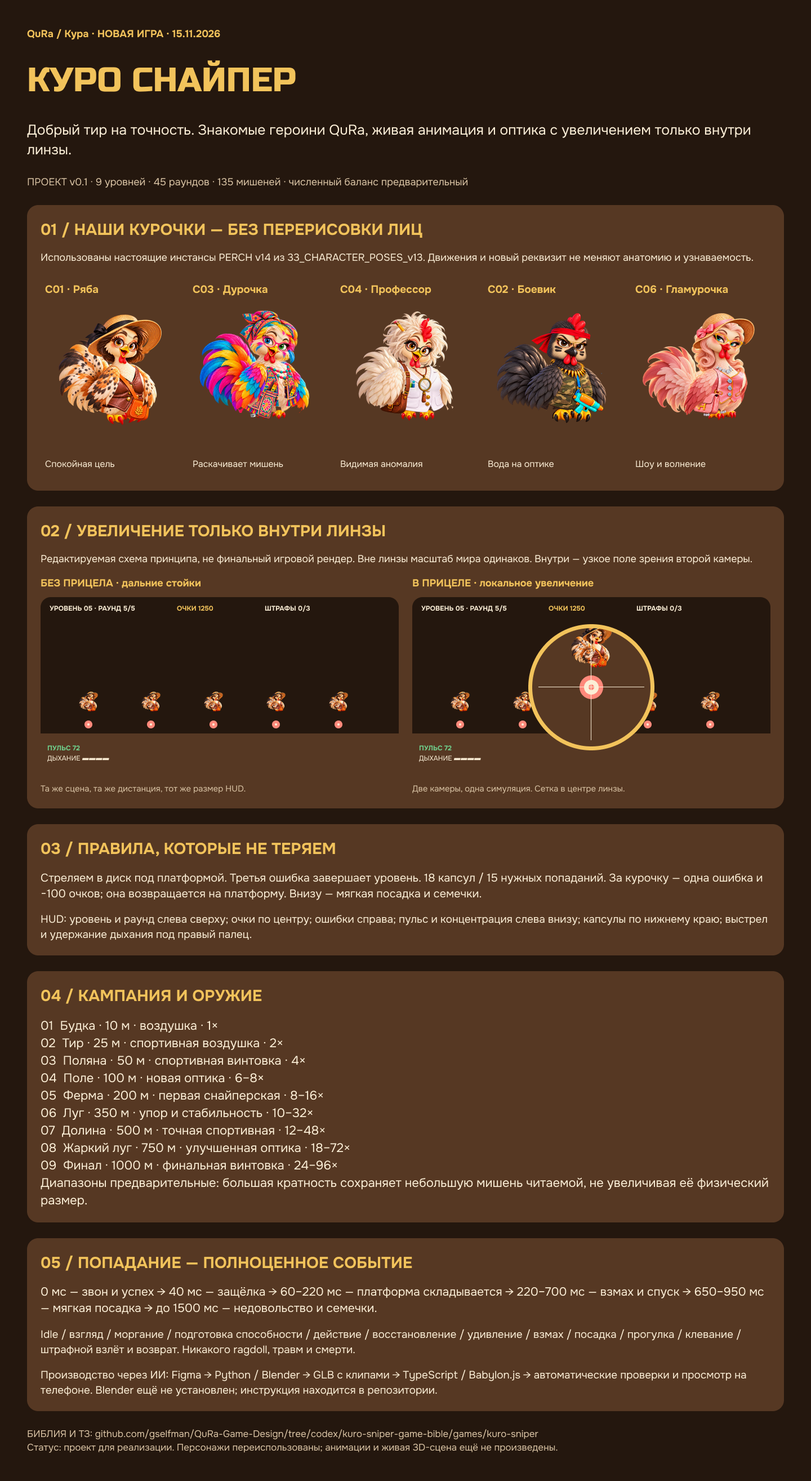
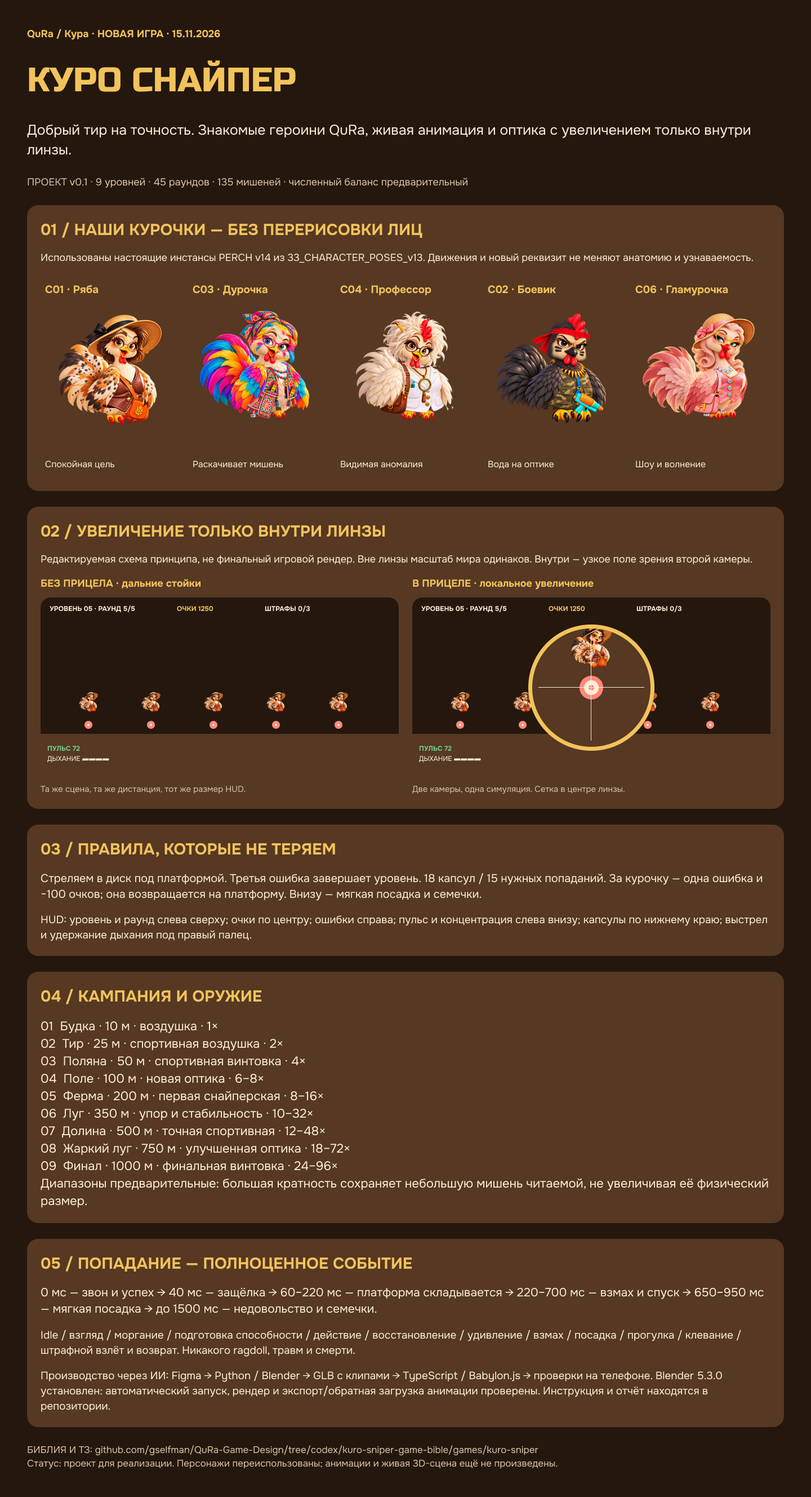
tools: configure and verify Blender automation on Apple Silicon

diff --git a/games/kuro-sniper/tools/blender_probe.py b/games/kuro-sniper/tools/blender_probe.py
@@ -1,14 +1,18 @@
 """Headless Blender capability probe. Creates a diagnostic cube, not a game asset."""
 import argparse
 import json
+import math
 import sys
 from pathlib import Path
 
 import bpy
+import gpu
+from mathutils import Vector
 
 arguments = sys.argv[sys.argv.index('--') + 1:] if '--' in sys.argv else []
 parser = argparse.ArgumentParser()
 parser.add_argument('--output', required=True)
+parser.add_argument('--engine', choices=['CYCLES', 'BLENDER_EEVEE'], default='CYCLES')
 options = parser.parse_args(arguments)
 output = Path(options.output).expanduser().resolve()
 output.mkdir(parents=True, exist_ok=True)
@@ -17,6 +21,9 @@ bpy.ops.object.delete(use_global=False)
 bpy.ops.mesh.primitive_cube_add(size=1, location=(0, 0, 0.5))
 probe = bpy.context.object
 probe.name = 'KS_DIAGNOSTIC_CUBE_NOT_CHARACTER'
+material = bpy.data.materials.new('KS_DIAGNOSTIC_AMBER')
+material.diffuse_color = (0.8, 0.27, 0.035, 1.0)
+probe.data.materials.append(material)
 probe.rotation_euler.z = 0
 probe.keyframe_insert(data_path='rotation_euler', frame=1)
 probe.rotation_euler.z = 0.6
@@ -25,16 +32,57 @@ bpy.context.scene.render.fps = 30
 bpy.context.scene.frame_start = 1
 bpy.context.scene.frame_end = 30
 bpy.context.scene.frame_set(1)
+scene = bpy.context.scene
+scene.render.engine = options.engine
+if options.engine == 'CYCLES':
+    scene.cycles.device = 'CPU'
+    scene.cycles.samples = 12
+scene.render.resolution_x = 512
+scene.render.resolution_y = 512
+scene.render.resolution_percentage = 100
+scene.world.color = (0.12, 0.12, 0.12)
+bpy.ops.object.camera_add(location=(3, -4, 3))
+camera = bpy.context.object
+camera.rotation_euler = (Vector((0, 0, 0.5)) - camera.location).to_track_quat('-Z', 'Y').to_euler()
+scene.camera = camera
+bpy.ops.object.light_add(type='AREA', location=(1, -2, 4))
+bpy.context.object.data.energy = 500
+bpy.context.object.data.shape = 'DISK'
+bpy.context.object.data.size = 4
+scene.render.image_settings.file_format = 'PNG'
+scene.render.filepath = str(output / 'probe.png')
 bpy.ops.wm.save_as_mainfile(filepath=str(output / 'probe.blend'))
 bpy.ops.export_scene.gltf(filepath=str(output / 'probe.glb'), export_format='GLB', export_animations=True)
+bpy.ops.render.render(write_still=True)
+graphics_backend = gpu.platform.backend_type_get()
+# Round-trip the exported file to exercise the installed import/export add-on.
+probe_name = probe.name
+bpy.ops.wm.read_factory_settings(use_empty=True)
+bpy.context.scene.render.fps = 30
+bpy.ops.import_scene.gltf(filepath=str(output / 'probe.glb'))
+restored = bpy.data.objects.get('KS_DIAGNOSTIC_CUBE_NOT_CHARACTER')
+if restored is None or restored.animation_data is None or restored.animation_data.action is None:
+    raise RuntimeError('GLB round-trip did not restore the diagnostic animation')
+bpy.context.scene.frame_set(1)
+start_rotation = restored.rotation_quaternion.copy() if restored.rotation_mode == 'QUATERNION' else restored.rotation_euler.to_quaternion()
+bpy.context.scene.frame_set(30)
+end_rotation = restored.rotation_quaternion.copy() if restored.rotation_mode == 'QUATERNION' else restored.rotation_euler.to_quaternion()
+rotation_delta = start_rotation.rotation_difference(end_rotation).angle
+if rotation_delta < 0.1:
+    raise RuntimeError('Imported animation did not change the diagnostic cube rotation')
 report = {
     'purpose': 'diagnostic cube only; no production chicken model or rig tested',
     'blenderVersion': bpy.app.version_string,
-    'files': ['probe.blend', 'probe.glb'],
+    'files': ['probe.blend', 'probe.glb', 'probe.png'],
     'frames': [1, 30],
     'fps': 30,
-    'mesh': probe.name,
+    'mesh': probe_name,
     'glbBytes': (output / 'probe.glb').stat().st_size,
+    'pngBytes': (output / 'probe.png').stat().st_size,
+    'animationRoundTrip': True,
+    'rotationChangeDegrees': math.degrees(rotation_delta),
+    'renderEngine': 'CYCLES_CPU' if options.engine == 'CYCLES' else options.engine,
+    'graphicsBackend': graphics_backend,
 }
 (output / 'probe-report.json').write_text(json.dumps(report, ensure_ascii=False, indent=2))
 print(json.dumps(report, ensure_ascii=False))

diff --git a/games/kuro-sniper/tools/blender_metal_check.py b/games/kuro-sniper/tools/blender_metal_check.py
@@ -1,0 +1,58 @@
+"""Render a small Metal test; optionally save Cycles device preferences."""
+import argparse
+import json
+import sys
+from pathlib import Path
+
+import bpy
+
+arguments = sys.argv[sys.argv.index('--') + 1:] if '--' in sys.argv else []
+parser = argparse.ArgumentParser()
+parser.add_argument('--output', required=True)
+parser.add_argument('--save-preferences', action='store_true')
+parser.add_argument('--kernel-optimization', choices=['OFF', 'INTERSECT', 'FULL'], default='INTERSECT')
+options = parser.parse_args(arguments)
+output = Path(options.output).expanduser().resolve()
+output.mkdir(parents=True, exist_ok=True)
+existing_preferences = Path(bpy.utils.user_resource('CONFIG')) / 'userpref.blend'
+if options.save_preferences and existing_preferences.is_file():
+    # --factory-startup is useful for a repeatable test scene, but should not
+    # reset unrelated preferences when applying the Cycles device selection.
+    bpy.ops.wm.read_userpref()
+preferences = bpy.context.preferences.addons['cycles'].preferences
+preferences.compute_device_type = 'METAL'
+preferences.kernel_optimization_level = options.kernel_optimization
+preferences.get_devices()
+print('Metal device discovery completed', flush=True)
+devices = []
+for device in preferences.devices:
+    device.use = device.type == 'METAL'
+    devices.append({'name': device.name, 'type': device.type, 'enabled': bool(device.use)})
+if not any(d['type'] == 'METAL' and d['enabled'] for d in devices):
+    raise RuntimeError('No Metal render device was found; preferences were not saved')
+print(json.dumps({'devices': devices}), flush=True)
+scene = bpy.context.scene
+scene.render.engine = 'CYCLES'
+scene.cycles.device = 'GPU'
+scene.cycles.samples = 4
+scene.render.resolution_x = 256
+scene.render.resolution_y = 256
+scene.render.resolution_percentage = 100
+scene.render.image_settings.file_format = 'PNG'
+scene.render.filepath = str(output / 'metal-probe.png')
+print('Starting Metal test render', flush=True)
+bpy.ops.render.render(write_still=True)
+if options.save_preferences:
+    bpy.ops.wm.save_userpref()
+report = {
+    'blenderVersion': bpy.app.version_string,
+    'devices': devices,
+    'renderEngine': 'CYCLES_METAL_GPU',
+    'renderPassed': True,
+    'preferencesSaved': options.save_preferences,
+    'kernelOptimization': options.kernel_optimization,
+    'pngBytes': (output / 'metal-probe.png').stat().st_size,
+    'note': 'New scenes must also select Cycles GPU; factory-startup may ignore saved user preferences.',
+}
+(output / 'metal-report.json').write_text(json.dumps(report, ensure_ascii=False, indent=2))
+print(json.dumps(report, ensure_ascii=False))

diff --git a/games/kuro-sniper/tools/configure_blender.py b/games/kuro-sniper/tools/configure_blender.py
@@ -1,0 +1,22 @@
+"""Save the locally verified Apple Silicon profile without resetting other preferences."""
+import json
+from pathlib import Path
+
+import bpy
+
+existing = Path(bpy.utils.user_resource('CONFIG')) / 'userpref.blend'
+if existing.is_file():
+    bpy.ops.wm.read_userpref()
+bpy.context.preferences.system.gpu_backend = 'METAL'
+cycles = bpy.context.preferences.addons['cycles'].preferences
+# EEVEE uses the verified Metal graphics backend. Keep Cycles on its verified
+# CPU path until an explicit Cycles-GPU kernel compilation test completes.
+cycles.compute_device_type = 'NONE'
+bpy.ops.wm.save_userpref()
+print(json.dumps({
+    'blenderVersion': bpy.app.version_string,
+    'graphicsBackend': bpy.context.preferences.system.gpu_backend,
+    'cyclesComputeDeviceType': cycles.compute_device_type,
+    'preferencesSaved': True,
+    'preservesExistingPreferences': True,
+}))

diff --git a/games/kuro-sniper/tools/validate_bible.py b/games/kuro-sniper/tools/validate_bible.py
@@ -75,6 +75,7 @@ for document in ROOT.glob('*.md'):
         if re.match(r'^[a-zA-Z]+:', link) or link.startswith('#'):
             continue
         assert (document.parent / link.split('#')[0]).exists(), (document.name, link)
-compile((ROOT / 'tools/blender_probe.py').read_text(), 'blender_probe.py', 'exec')
+for script in ('blender_probe.py', 'blender_metal_check.py', 'configure_blender.py'):
+    compile((ROOT / 'tools' / script).read_text(), script, 'exec')
 print('PASS: 9 levels / 45 rounds / 135 targets; ammo, score, references, 47 briefs, lens geometry and links.')
-print('NOT RUN: game runtime, live optics rendering, animation quality, real-device FPS, Blender execution.')
+print('NOT RUN by this validator: game runtime, live optics rendering, animation quality, real-device FPS or Blender. See blender-environment.json for separate installed-tool checks.')

diff --git a/games/kuro-sniper/BLENDER_SETUP.md b/games/kuro-sniper/BLENDER_SETUP.md
@@ -1,0 +1,73 @@
+# Blender — установка и проверка автоматизации
+
+Дата: 15.11.2026, Москва. Установлена стабильная **Blender 5.3.0**, Release `02f0899d78e3`, нативная архитектура Apple Silicon arm64. Установка через официальный Homebrew cask `blender` с ARM Homebrew `/opt/homebrew/bin/brew`.
+
+Приложение: `/Applications/Blender.app`. Исполняемый файл: `/Applications/Blender.app/Contents/MacOS/Blender`. Команда терминала: `/opt/homebrew/bin/blender`. macOS: проверка подписи пройдена, Gatekeeper `accepted`, источник `Notarized Developer ID`. Защита macOS не отключалась.
+
+## Что реально проверено
+
+- Запуск Blender из командной строки без ручной работы в интерфейсе.
+- Выполнение Python через `bpy`, создание геометрии/материала/ключей анимации.
+- Сохранение реального `.blend`.
+- Рендер кадра 512×512 через Cycles CPU.
+- Экспорт glTF 2.0 `.glb`: один mesh, одна анимация, канал rotation.
+- Обратный импорт GLB и проверка движения между кадрами 1 и 30: изменение поворота около 34.38°.
+- Рендер кадра 512×512 через **EEVEE на GPU, backend METAL**, с повторной успешной проверкой экспорта/импорта анимации.
+- Сохранены настройки: графический backend Metal; Cycles остаётся на проверенном CPU-пути. Остальные существующие предпочтения при повторной настройке сохраняются.
+
+Машиночитаемые результаты: [blender-environment.json](data/blender-environment.json).
+
+Это проверка установленного инструментария на диагностическом кубе. Она не является производством игровых курочек и не доказывает качество будущего rig/анимаций или FPS мобильной игры.
+
+## Команды для дальнейшей работы
+
+Из корня репозитория:
+
+```sh
+bash games/kuro-sniper/tools/blender.sh --version
+bash games/kuro-sniper/tools/blender.sh --background --factory-startup --python-exit-code 1 --python games/kuro-sniper/tools/blender_probe.py -- --output /tmp/kuro-sniper-blender-probe
+```
+
+Быстрый GPU-тест EEVEE:
+
+```sh
+bash games/kuro-sniper/tools/blender.sh --background --factory-startup --python-exit-code 1 --python games/kuro-sniper/tools/blender_probe.py -- --output /tmp/kuro-sniper-blender-eevee --engine BLENDER_EEVEE
+```
+
+Повторная установка проверенного рабочего профиля с сохранением остальных предпочтений:
+
+```sh
+bash games/kuro-sniper/tools/blender.sh --background --factory-startup --python-exit-code 1 --python games/kuro-sniper/tools/configure_blender.py
+```
+
+Опциональная проверка **Cycles** на Metal с сохранением настроек только после успешного рендера:
+
+```sh
+bash games/kuro-sniper/tools/blender.sh --background --factory-startup --python-exit-code 1 --python games/kuro-sniper/tools/blender_metal_check.py -- --output /tmp/kuro-sniper-blender-metal --save-preferences
+```
+
+`blender.sh` автоматически находит приложение и позволяет задать другую проверенную установку через `BLENDER_BIN`. Это устраняет зависимость от того, какой Homebrew первым стоит в PATH. Пароль/API-ключ, внешний MCP-сервер и открытый сетевой порт для управления не требуются.
+
+## GPU для производственного скрипта
+
+Для быстрых превью выбирать `scene.render.engine='BLENDER_EEVEE'`: этот режим с Metal реально прошёл тест. Cycles CPU также проверен. Первый FULL-тест Cycles/GPU был остановлен после более восьми минут компиляции без кадра; облегчённый OFF-тест тоже остановлен без результата. Это не считается PASS и не доказывает невозможность Cycles на GPU. У Blender есть [сообщение о замедленной компиляции Metal в 5.3](https://projects.blender.org/blender/blender/issues/166491); оно может объяснять наблюдение, но точная причина в этом сеансе не установлена.
+
+Если отдельно проводить повторный Cycles/GPU-тест, в конкретной сцене выбирать его явно:
+
+```python
+preferences = bpy.context.preferences.addons['cycles'].preferences
+preferences.compute_device_type = 'METAL'
+preferences.get_devices()
+for device in preferences.devices:
+    device.use = device.type == 'METAL'
+scene.render.engine = 'CYCLES'
+scene.cycles.device = 'GPU'
+```
+
+Перед рендером проверить наличие enabled Metal device; при отсутствии вывести понятную ошибку или явно выбранный CPU fallback. Не считать сохранённые user preferences гарантией выбора GPU в `--factory-startup`. Первый Metal-рендер может долго компилировать шейдеры; последующие задания используют системный cache. Не выполнять очистку этого cache как обычный подготовительный шаг.
+
+## Артефакты текущей проверки
+
+В рабочем каталоге QuRa: `output/blender-check/` содержит CPU-проверку — `probe.blend`, `probe.glb`, `probe.png`, `probe-report.json`. Каталог `output/blender-eevee-check/` содержит такую же успешную проверку через EEVEE/Metal. Cycles-GPU-файлы `metal-probe.png` и `metal-report.json` не созданы: эти тесты не завершили рендер. В репозиторий включён небольшой environment report; диагностические модели не подмешиваются к игровым ассетам.
+
+Для новой модели агент получает canonical source, версию rig, длительности и события клипа, затем создаёт/изменяет `.blend` через Python и возвращает GLB, preview и отчёт. Подробный производственный процесс: [AI_PRODUCTION_RUNBOOK.md](AI_PRODUCTION_RUNBOOK.md).

diff --git a/games/kuro-sniper/AI_PRODUCTION_RUNBOOK.md b/games/kuro-sniper/AI_PRODUCTION_RUNBOOK.md
@@ -2,7 +2,9 @@
 
 ## Что уже доступно и что требуется
 
-Проверено 15.11.2026: Figma подключена; GitHub доступен через `gh`; Node.js и Python есть. Blender не найден в PATH и `/Applications/Blender*.app`. Поиск подключаемого Blender-плагина в текущем каталоге не дал результата. Это не мешает управлению Blender через его официальный Python API и командный режим. Дополнительные платные 3D/animation-платформы для начала не нужны.
+Проверено 15.11.2026: Figma подключена; GitHub доступен через `gh`; Node.js и Python есть. **Blender 5.3.0 установлен для Apple Silicon** в `/Applications/Blender.app`, команда доступна как `/opt/homebrew/bin/blender`. macOS приняла notarized Developer ID приложения. Автоматический Python-запуск, сохранение `.blend`, Cycles CPU, EEVEE GPU через Metal и экспорт/обратная загрузка анимированного GLB проверены успешно. Рабочий профиль: EEVEE/Metal для быстрых превью, Cycles/CPU для проверенного офлайн-рендера. Cycles/GPU не заявляется проверенным: тесты остановлены на длительной компиляции. Подробности — в [отчёте установки](BLENDER_SETUP.md).
+
+Поиск подключаемого Blender-плагина в текущем каталоге не дал результата. Управление уже работает через официальный Python API и командный режим; дополнительный MCP-плагин и платные 3D/animation-платформы для начала не нужны.
 
 Предлагаемый набор:
 
@@ -25,10 +27,19 @@
 
 ```sh
 /Applications/Blender.app/Contents/MacOS/Blender --version
-/Applications/Blender.app/Contents/MacOS/Blender --background --factory-startup --python games/kuro-sniper/tools/blender_probe.py -- --output /tmp/kuro-sniper-blender-probe
+/Applications/Blender.app/Contents/MacOS/Blender --background --factory-startup --python-exit-code 1 --python games/kuro-sniper/tools/blender_probe.py -- --output /tmp/kuro-sniper-blender-probe
 ```
 
-Запускать из корня репозитория. Скрипт создаёт диагностические `.blend`, `.glb` и JSON с версией; это **не модель курочки**. После успешного запуска версия Blender фиксируется в production manifest, чтобы повторная генерация не зависела от внезапного обновления. Диагностика не требует интернет-доступа, API-ключа или открытого порта.
+Запускать из корня репозитория. Скрипт создаёт диагностические `.blend`, `.glb`, PNG и JSON с версией; проверяет реальный рендер и изменение поворота после обратной загрузки анимации. Это **не модель курочки**. После успешного запуска версия Blender фиксируется в production manifest, чтобы повторная генерация не зависела от внезапного обновления. Диагностика не требует интернет-доступа, API-ключа или открытого порта.
+
+Для независимости от порядка Intel/Apple Silicon Homebrew в PATH есть проектная команда:
+
+```sh
+bash games/kuro-sniper/tools/blender.sh --version
+bash games/kuro-sniper/tools/blender.sh --background --factory-startup --python-exit-code 1 --python games/kuro-sniper/tools/blender_probe.py -- --output /tmp/kuro-sniper-blender-probe
+```
+
+Опция `--python-exit-code 1` обязательна в автоматических заданиях: ошибка Python должна завершать задачу ошибкой, а не выглядеть успешным запуском Blender. Сохранение настроек устройства Cycles не означает, что каждая новая сцена автоматически выбрала GPU: в скрипте рендера задавать `scene.render.engine='CYCLES'` и `scene.cycles.device='GPU'` явно.
 
 Не устанавливать случайный community MCP с правом исполнять любой код только ради слова «нейросеть». Сначала CLI; если позже понадобится интерактивный bridge, отдельно выбрать поддерживаемое решение, проверить код и ограничить локальным доступом. Не открывать bridge в интернет.
 

diff --git a/games/kuro-sniper/VALIDATION.md b/games/kuro-sniper/VALIDATION.md
@@ -21,9 +21,9 @@
 
 Схема оптики демонстрирует требование композиции, не является работающей двухкамерной 3D-сценой. Экспорт overview — снимок для GitHub; сама Figma-страница содержит редактируемые слои и инстансы, а не импорт единого screenshot.
 
-## Не выполнялось / не заявляется готовым
+## Инструменты и границы проверенного
 
-- Установка Blender и запуск `blender_probe.py`: NOT_RUN, Blender не найден.
+- Установка Blender и запуск `blender_probe.py`: **PASS после установки 15.11.2026**. Blender 5.3.0 arm64, подпись/macOS accepted, Python, сохранение `.blend`, Cycles CPU и EEVEE/Metal GPU, экспорт и обратная загрузка анимации GLB проверены. Cycles/GPU: NOT_VERIFIED, остановлен на компиляции. Сохранён профиль Metal для графики и CPU для Cycles. Подробности — в [отчёте окружения](data/blender-environment.json); инструкции — [BLENDER_SETUP.md](BLENDER_SETUP.md).
 - Производство новых 3D-моделей, rig, runtime-анимаций и девяти окружений: NOT_RUN.
 - Реальный рендер оптики, коллизии, мультитач, context loss и интеграция QuRa: NOT_RUN.
 - Замеры FPS/памяти на телефонах, художественная приёмка нового 3D и пользовательские тесты: NOT_RUN.

diff --git a/games/kuro-sniper/README.md b/games/kuro-sniper/README.md
@@ -6,6 +6,8 @@
 
 [Открыть отдельный раздел Figma](https://www.figma.com/design/pTm5JOM8r7b8ukBrk3UsXg?node-id=2001-3) · [Обзор раздела в PNG](preview/figma-overview.png) · [Фактическая проверка пакета](VALIDATION.md).
 
+Blender установлен и проверен: [состояние инструментов и команды запуска](BLENDER_SETUP.md).
+
 ## Как пользоваться пакетом
 
 1. [Библия и границы игры](GAME_BIBLE.md).
